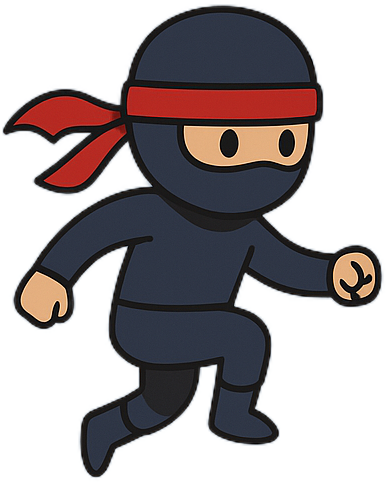
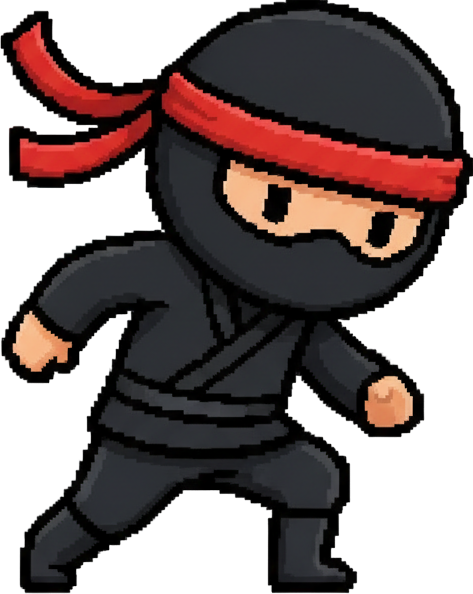
Sprites' size fix

diff --git a/game/pygame_canvas.py b/game/pygame_canvas.py
@@ -44,10 +44,10 @@ def run_pygame_level(level: int = 1, external_running_flag=None):
 
     # Загружаем PNG-спрайты напрямую для pygame
     sprite_cache = {
-        "idle": pygame.image.load("resources/staying1.1.png").convert_alpha(),
-        "run": pygame.image.load("resources/jump_start1.1.png").convert_alpha(),
-        "jump_up": pygame.image.load("resources/jump_up1.1.png").convert_alpha(),
-        "jump_fall": pygame.image.load("resources/jump_fall1.1.png").convert_alpha(),
+        "idle": pygame.image.load("resources/staying.png").convert_alpha(),
+        "run": pygame.image.load("resources/jump_start.png").convert_alpha(),
+        "jump_up": pygame.image.load("resources/jump_up.png").convert_alpha(),
+        "jump_fall": pygame.image.load("resources/jump_fall.png").convert_alpha(),
     }
 
     # ---------- СКЕЙЛ СПРАЙТОВ + РАЗМЕРЫ ПЕРСОНАЖА ----------

diff --git a/game/entities.py b/game/entities.py
@@ -9,12 +9,12 @@ RES = (Path(__file__).resolve().parents[1] / "resources").resolve()
 
 # Список спрайтов персонажа
 SPRITE_FILES = {
-    "idle": "staying1.1.png",
-    "run": "jump_start1.1.png",
-    "jump_start": "jump_start1.1.png",
-    "jump_up": "jump_up1.1.png",
-    "jump_fall": "jump_fall1.1.png",
-    "jump_land": "jump_land1.1.png",
+    "idle": "staying.png",
+    "run": "jump_start.png",
+    "jump_start": "jump_start.png",
+    "jump_up": "jump_up.png",
+    "jump_fall": "jump_fall.png",
+    "jump_land": "jump_land.png",
 }
 
 TARGET_MAX_HEIGHT = 160  # Ограничиваем высоту спрайтов
